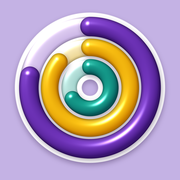
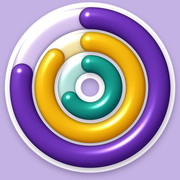
Иконка трекера: кольца ещё крупнее
Claude-Session: https://claude.ai/code/session_01AUrvF84t1YRqqJfUXViYUR

diff --git a/handoffs/2026-11-14-tracker-ios-icon.md b/handoffs/2026-11-14-tracker-ios-icon.md
@@ -9,4 +9,4 @@
 - Родительские и ученические виды трекера — те же страницы (отдельных нет), поэтому иконка действует и на них.
 - Вид на самом iPhone не проверялся (только предпросмотр PNG).
 
-**Обновление:** кольца увеличены (обрезаны прозрачные поля, ~90% ширины), родные цвета колец оставлены по решению Виктории; суффикс версии `t3`. Фон `#c4b2e4` совпадает с иконкой ANGLE.
+**Обновление:** кольца увеличены (обрезаны прозрачные поля, ~90% ширины), родные цвета колец оставлены по решению Виктории; суффикс версии `t4`; кольца ещё крупнее (~102% ширины, белый ободок касается краёв). Фон `#c4b2e4` совпадает с иконкой ANGLE.
